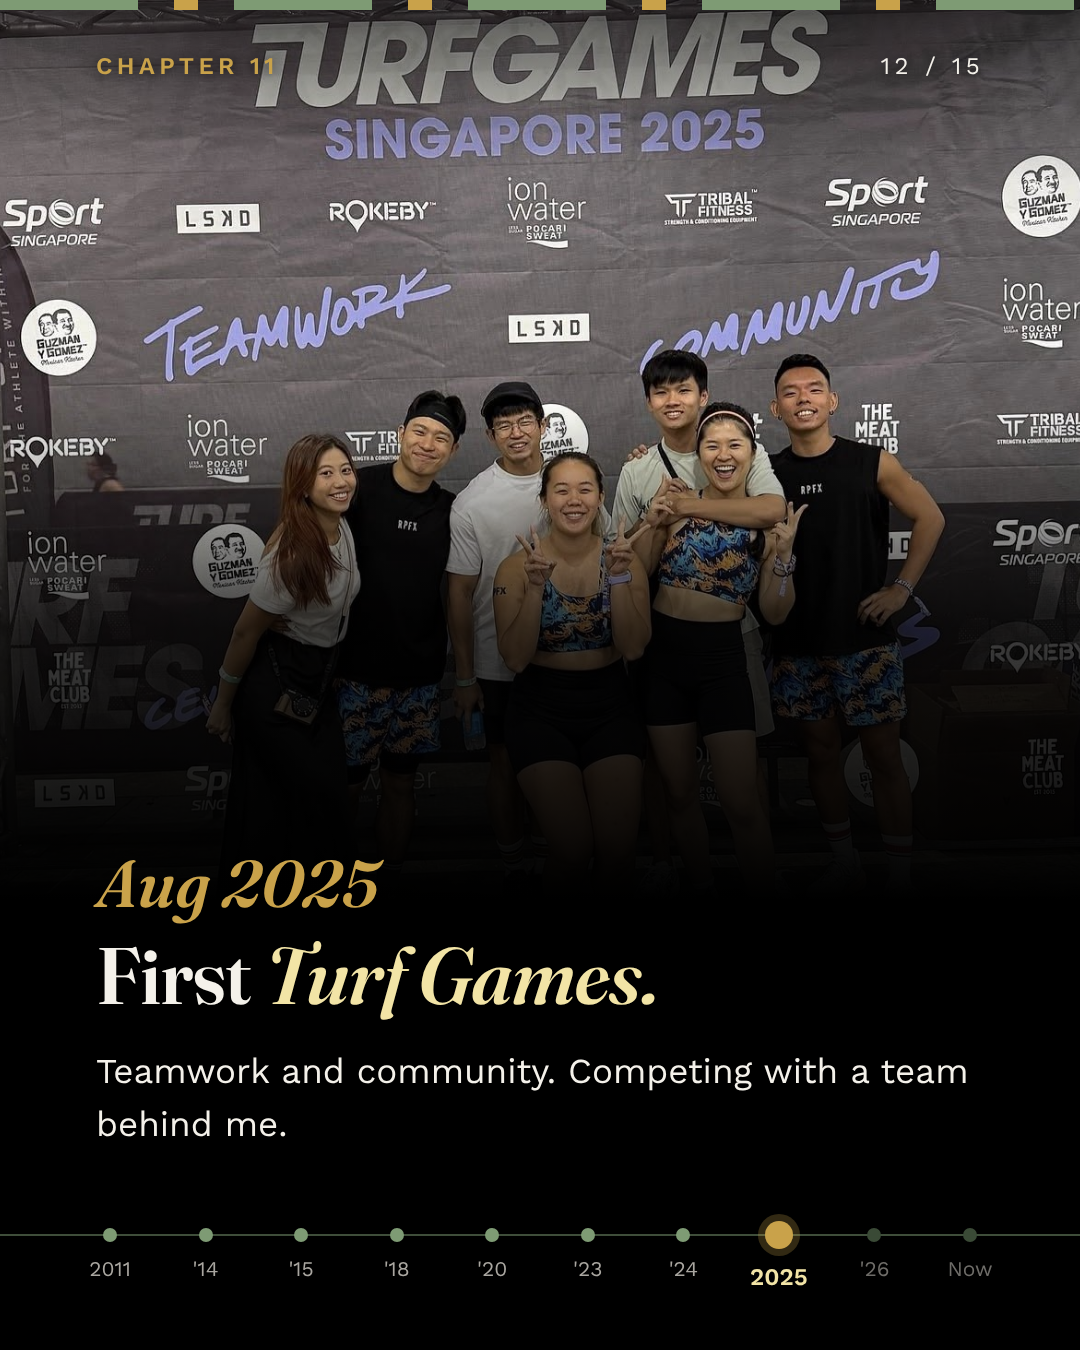
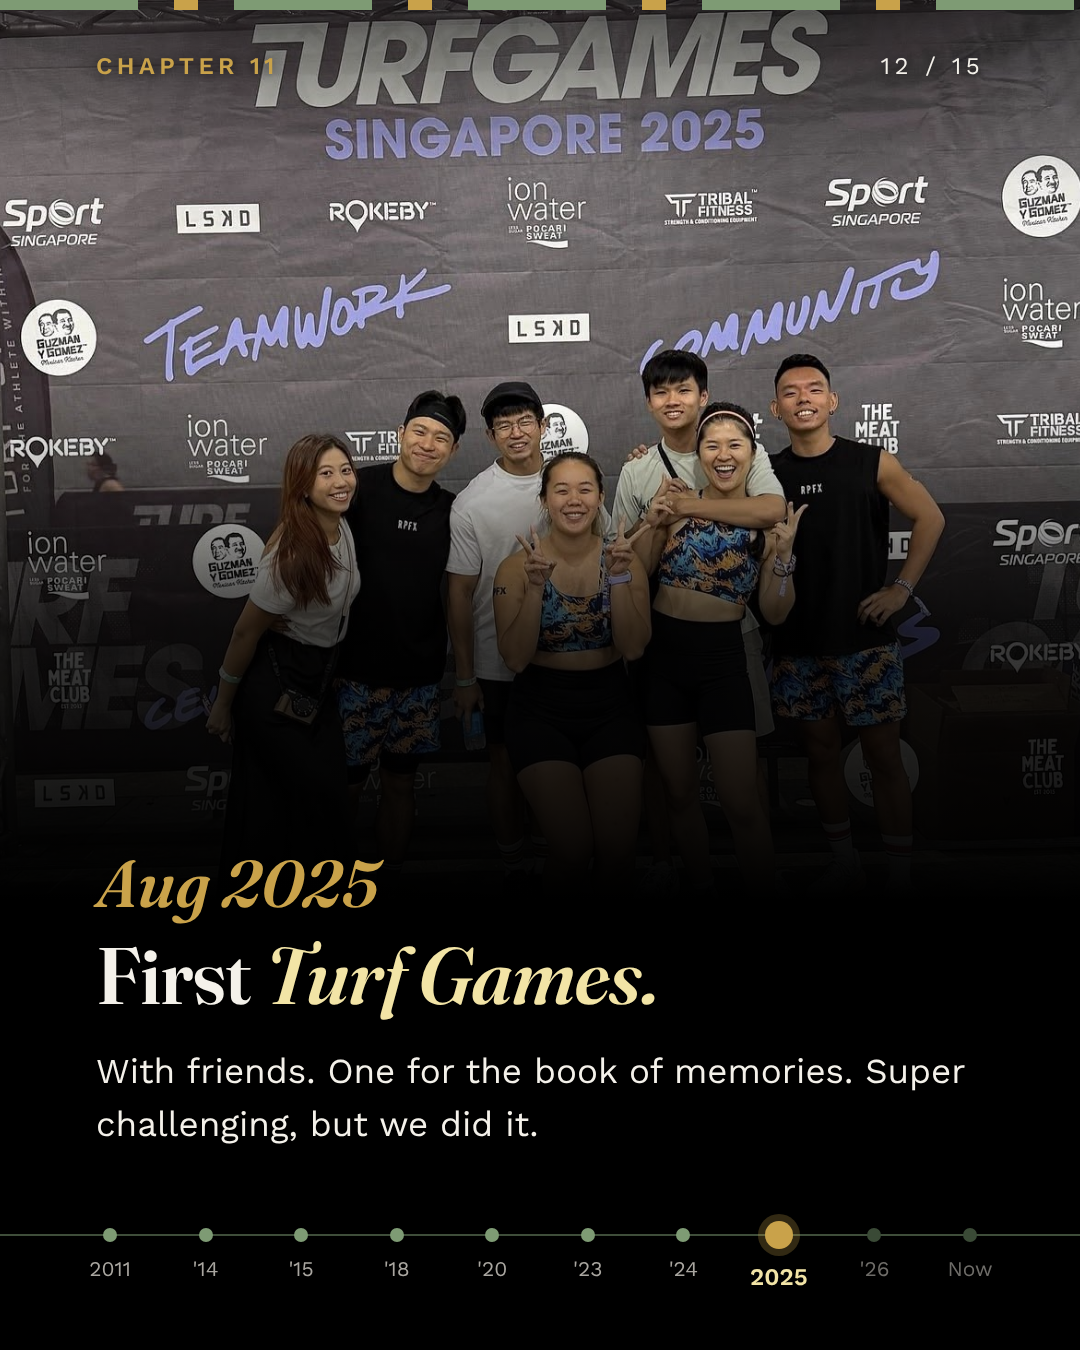
Journey carousel: revise Turf Games slide copy
Claude-Session: https://claude.ai/code/session_01QNxkYZ2h6udsyHuSyBd6uT

Changed region(s): [[0.0917, 0.7778, 0.8861, 0.8711]]

diff --git a/instagram/fitness-journey.html b/instagram/fitness-journey.html
@@ -247,7 +247,7 @@
     <div class="top"><span class="tag" contenteditable>Chapter 11</span><span class="count"></span></div>
     <div class="when"><span class="year" contenteditable>Aug 2025</span></div>
     <h2 contenteditable>First <em>Turf Games.</em></h2>
-    <p contenteditable>Teamwork and community. Competing with a team behind me.</p>
+    <p contenteditable>With friends. One for the book of memories. Super challenging, but we did it.</p>
     <div class="timeline"></div>
   </section>
 
